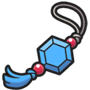
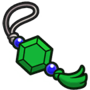
change exp-charm sprite
- showAwakening property weather rock hover

diff --git a/app/public/src/game/components/item-detail.tsx b/app/public/src/game/components/item-detail.tsx
@@ -23,10 +23,12 @@ import "./item-detail.css"
 
 export function ItemDetailTooltipContent({
   item,
-  showItemCombinationsTooltip = true
+  showItemCombinationsTooltip = true,
+  showAwakening = true
 }: {
   item: Item
   showItemCombinationsTooltip?: boolean
+  showAwakening?: boolean
 }) {
   const { t } = useTranslation()
   const recipes = useMemo(
@@ -105,7 +107,7 @@ export function ItemDetailTooltipContent({
       <p className="game-item-detail-description">
         {addIconsToDescription(t(`item_description.${item}`))}
       </p>
-      {isIn(WeatherRocks, item) && (
+      {showAwakening && isIn(WeatherRocks, item) && (
         <div className="game-item-detail-awakening">
           <div className="game-item-detail-awakening-label">
             <img src="/assets/icons/AWAKENING.svg" alt="" aria-hidden="true" />
@@ -148,6 +150,7 @@ export function ItemDetailTooltipContent({
             <ItemDetailTooltipContent
               item={content as Item}
               showItemCombinationsTooltip={false}
+              showAwakening={showAwakening}
             />
           )}
         />
@@ -156,13 +159,20 @@ export function ItemDetailTooltipContent({
   )
 }
 
-export function ItemDetailTooltip() {
+export function ItemDetailTooltip({
+  showAwakening = true
+}: {
+  showAwakening?: boolean
+} = {}) {
   return (
     <Tooltip
       id="item-detail-tooltip"
       className="custom-theme-tooltip item-detail-tooltip"
       render={({ content }) => (
-        <ItemDetailTooltipContent item={content as Item} />
+        <ItemDetailTooltipContent
+          item={content as Item}
+          showAwakening={showAwakening}
+        />
       )}
     />
   )

diff --git a/app/public/src/pages/component/wiki/wiki-weather.tsx b/app/public/src/pages/component/wiki/wiki-weather.tsx
@@ -160,7 +160,7 @@ export default function WikiWeather({
       </ul>
 
       <GamePokemonDetailTooltip origin="wiki" />
-      <ItemDetailTooltip />
+      <ItemDetailTooltip showAwakening={false} />
       <Tooltip
         id="weather-awakening-tooltip"
         className="custom-theme-tooltip"

diff --git a/app/public/src/pages/component/wiki/wiki-awakening.tsx b/app/public/src/pages/component/wiki/wiki-awakening.tsx
@@ -63,7 +63,7 @@ export default function WikiAwakening({
             </li>
           ))}
       </ul>
-      <ItemDetailTooltip />
+      <ItemDetailTooltip showAwakening={false} />
     </div>
   )
 }
